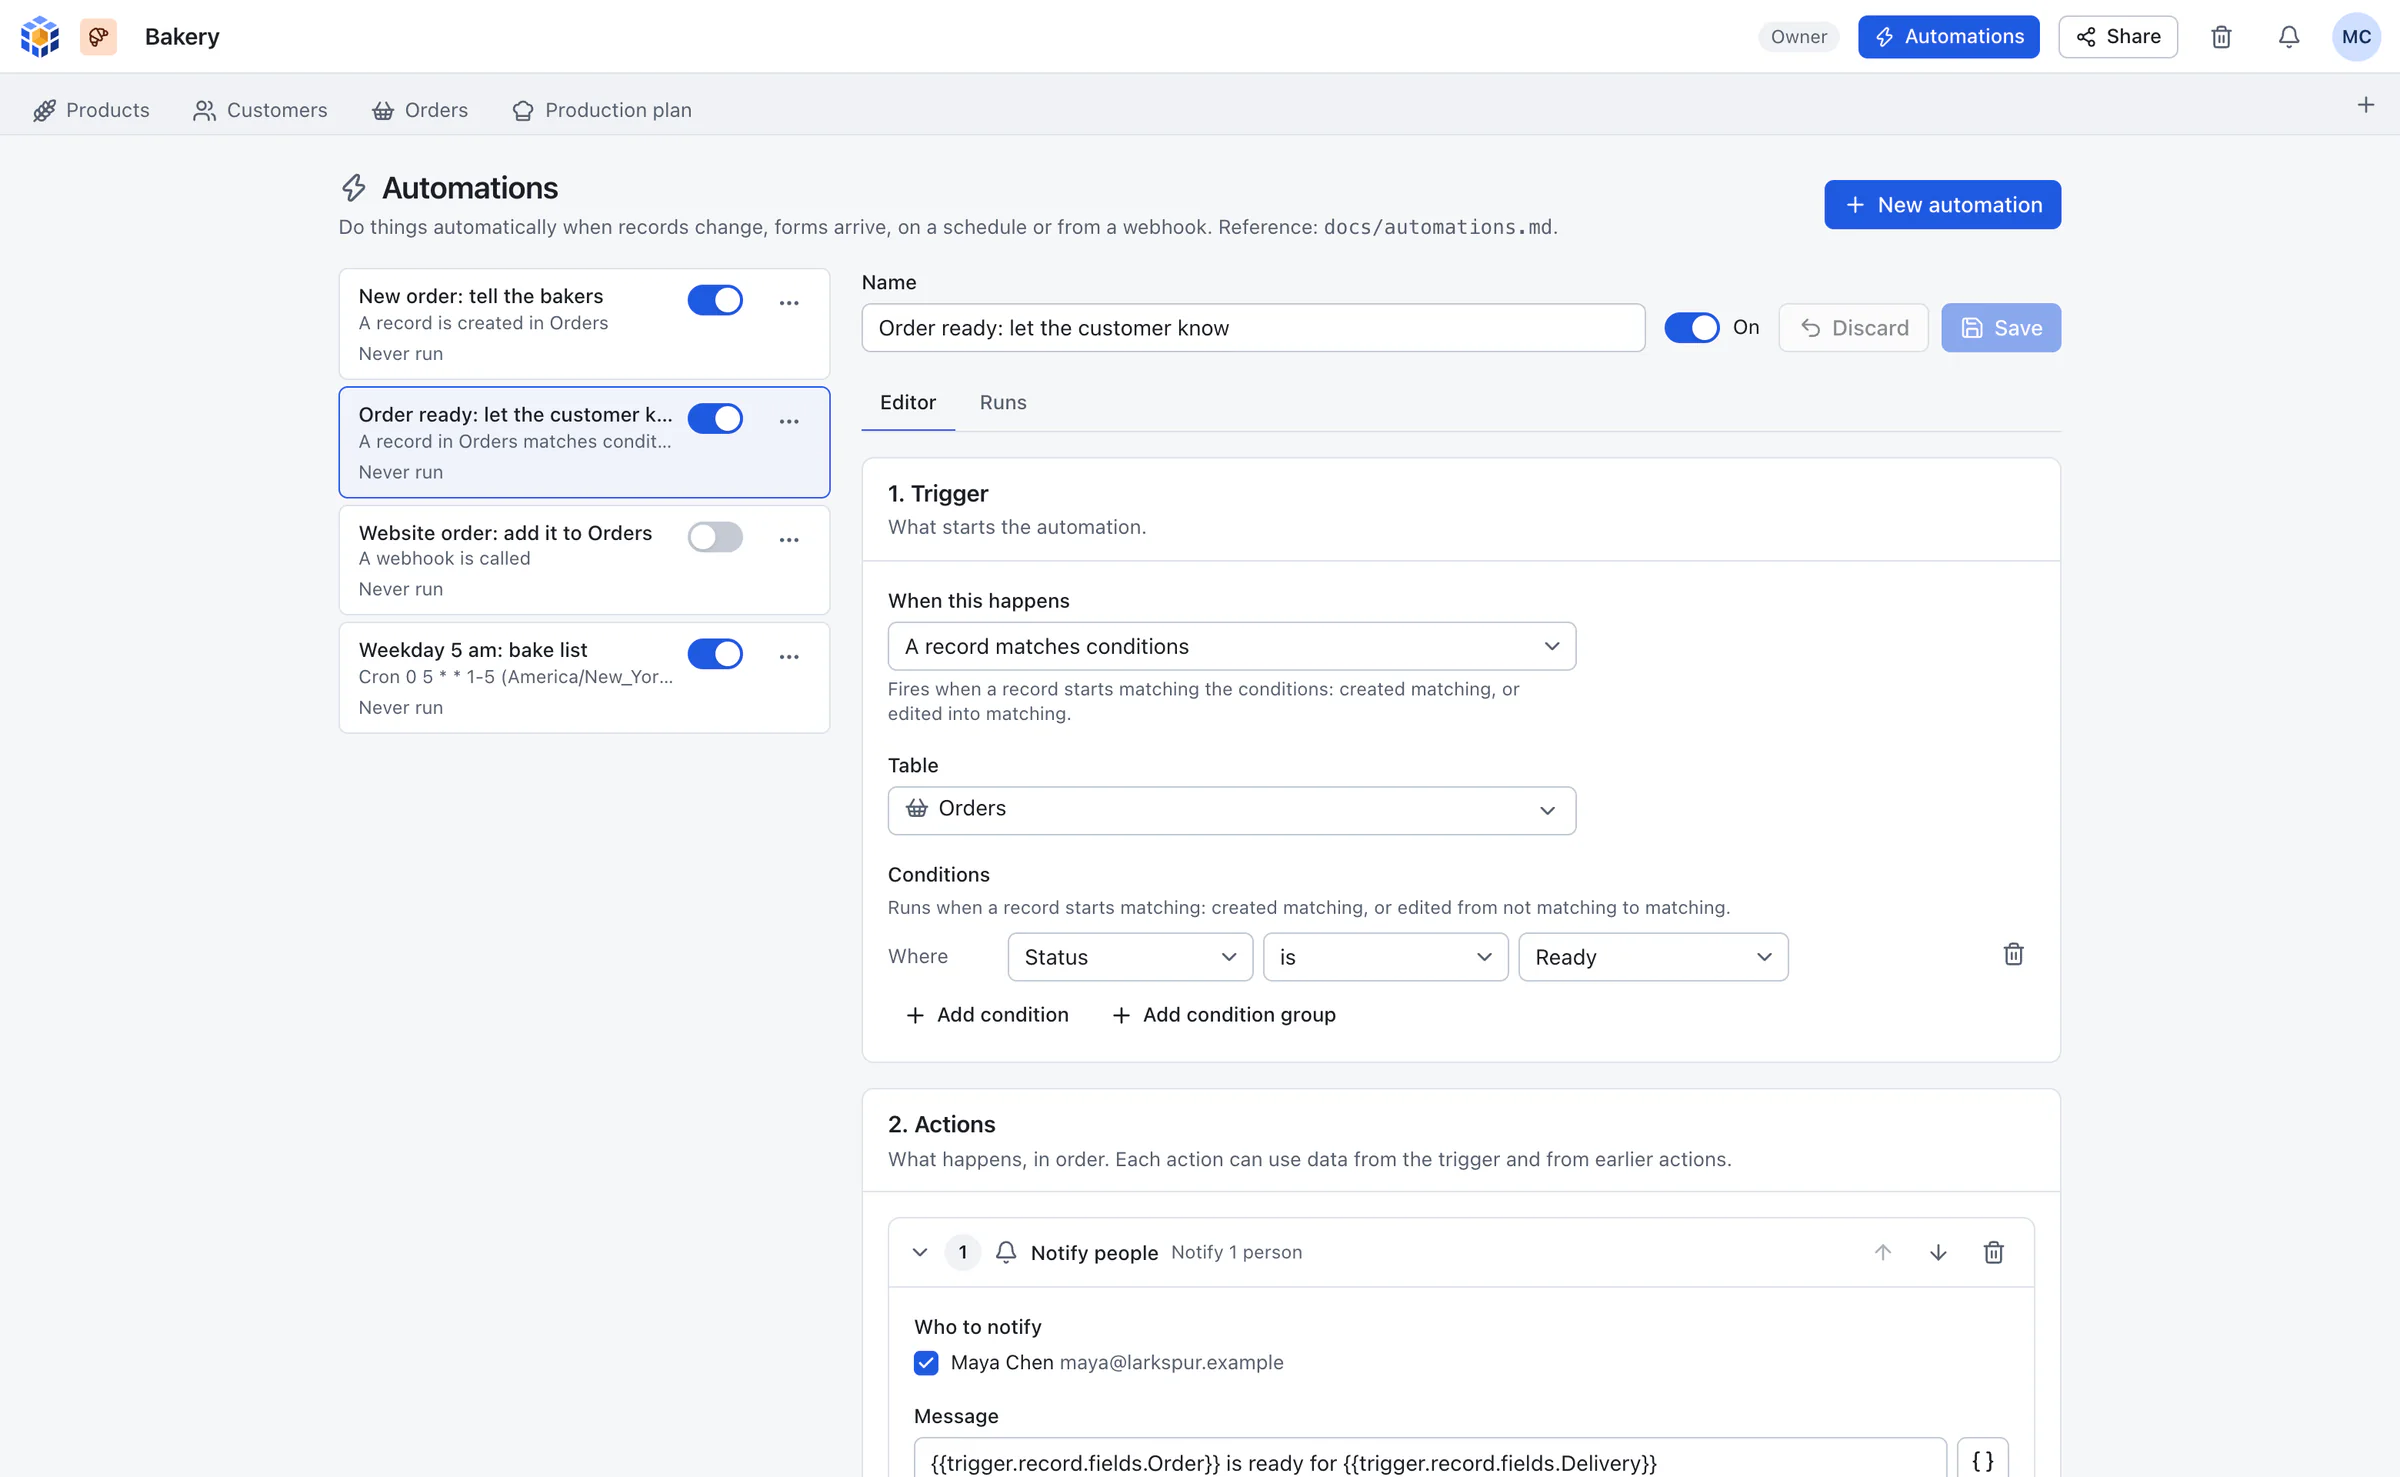
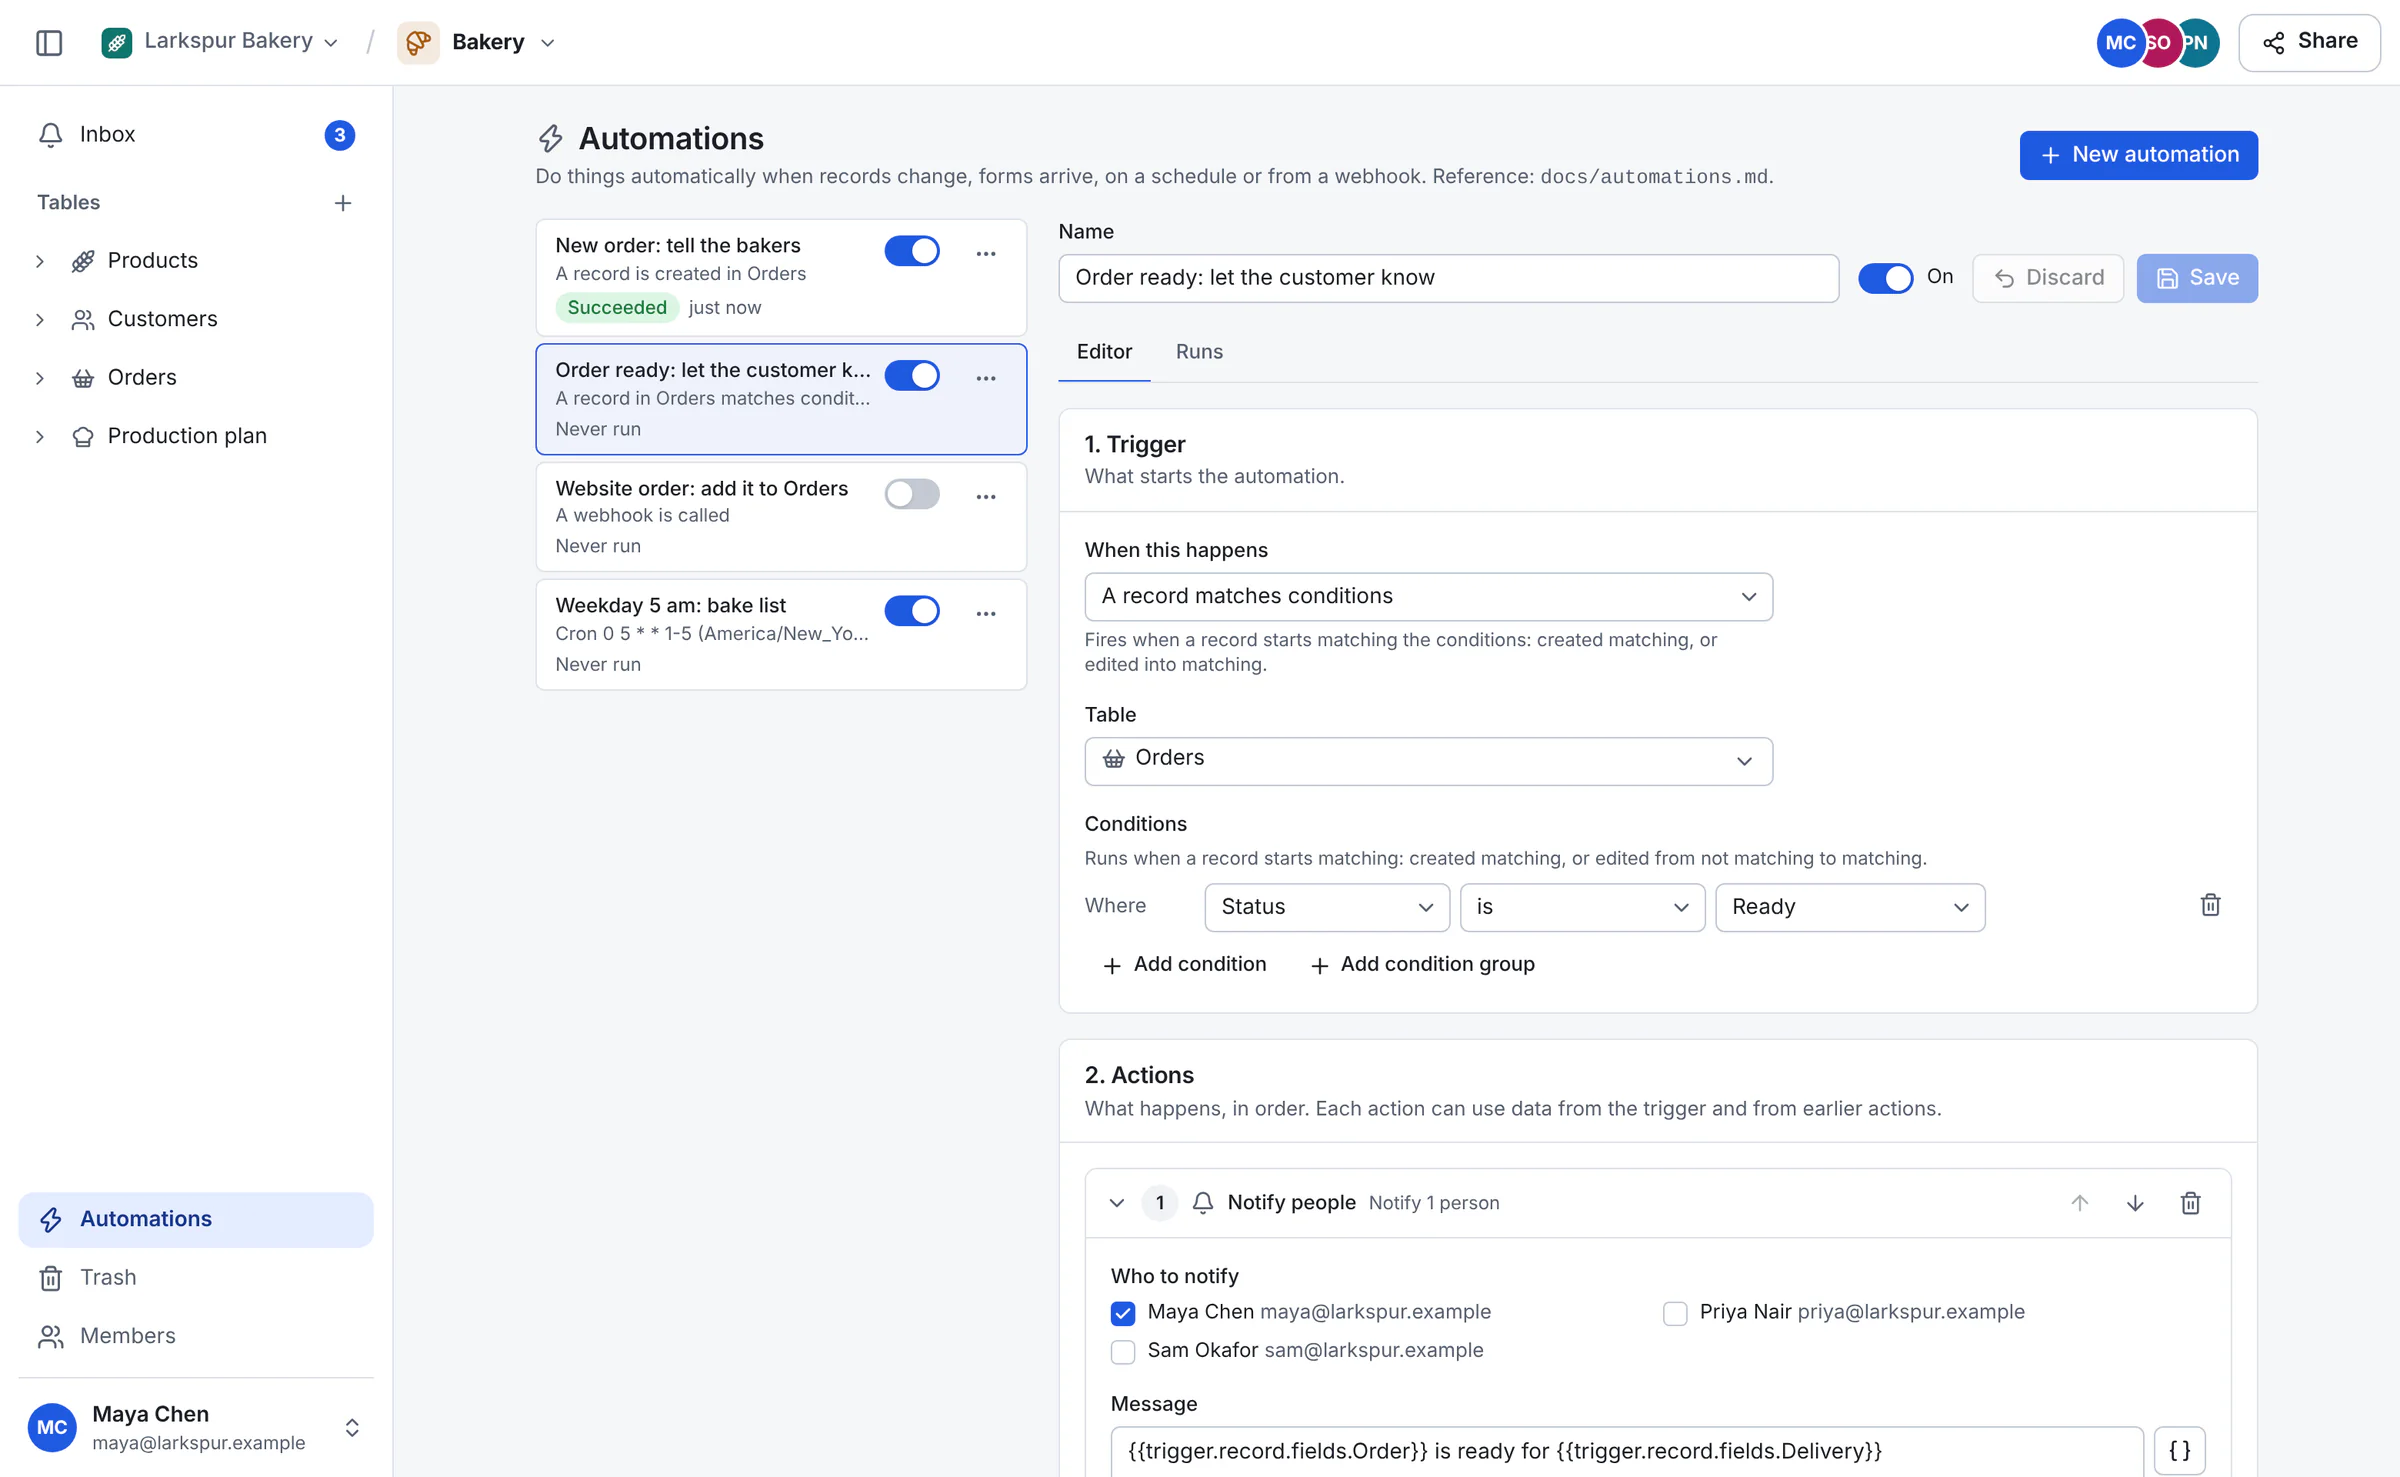
Site: screenshots and landing page for the redesign
The screenshot script works with the new app: it marks the first-run intro
as seen through the API, creates empty bases, colours the workspaces, seeds
more bases, two teammates who joined by invite and a pending invite, a few
Inbox notifications and one deleted item of each kind. New shots: workspace
home, Search everything, Members and the Trash page, wired into "See it".
OPENBASE_SHOTS_CHROMIUM (also in the smoke test) runs them with another
Chrome or Chromium. The feature list gains Search everything, Workspaces
and members and Easy to start, and drops per-base sharing.

Claude-Session: https://claude.ai/code/session_01YJ8z3JBMzgdkmcvJKEBwfd

diff --git a/site/src/data/icons.ts b/site/src/data/icons.ts
@@ -769,5 +769,83 @@ export const icons: Record<string, [string, Record<string, string>][]> = {
     "rx": "1"
    }
   ]
+ ],
+ "search": [
+  [
+   "path",
+   {
+    "d": "m21 21-4.34-4.34"
+   }
+  ],
+  [
+   "circle",
+   {
+    "cx": "11",
+    "cy": "11",
+    "r": "8"
+   }
+  ]
+ ],
+ "user-plus": [
+  [
+   "path",
+   {
+    "d": "M16 21v-2a4 4 0 0 0-4-4H6a4 4 0 0 0-4 4v2"
+   }
+  ],
+  [
+   "circle",
+   {
+    "cx": "9",
+    "cy": "7",
+    "r": "4"
+   }
+  ],
+  [
+   "line",
+   {
+    "x1": "19",
+    "x2": "19",
+    "y1": "8",
+    "y2": "14"
+   }
+  ],
+  [
+   "line",
+   {
+    "x1": "22",
+    "x2": "16",
+    "y1": "11",
+    "y2": "11"
+   }
+  ]
+ ],
+ "sparkles": [
+  [
+   "path",
+   {
+    "d": "M11.017 2.814a1 1 0 0 1 1.966 0l1.051 5.558a2 2 0 0 0 1.594 1.594l5.558 1.051a1 1 0 0 1 0 1.966l-5.558 1.051a2 2 0 0 0-1.594 1.594l-1.051 5.558a1 1 0 0 1-1.966 0l-1.051-5.558a2 2 0 0 0-1.594-1.594l-5.558-1.051a1 1 0 0 1 0-1.966l5.558-1.051a2 2 0 0 0 1.594-1.594z"
+   }
+  ],
+  [
+   "path",
+   {
+    "d": "M20 2v4"
+   }
+  ],
+  [
+   "path",
+   {
+    "d": "M22 4h-4"
+   }
+  ],
+  [
+   "circle",
+   {
+    "cx": "4",
+    "cy": "20",
+    "r": "2"
+   }
+  ]
  ]
 };

diff --git a/site/README.md b/site/README.md
@@ -52,16 +52,25 @@ Node 24 (`.node-version`). `npm run check-links -- --external` also requests eve
 
 `public/screenshots/*.webp` are real screenshots of the app. `npm run screenshots` regenerates them:
 it starts an **existing** release binary on a free localhost port (8080 when free) with a temporary data
-directory, creates the first admin, seeds a made-up bakery through the REST API (customers, orders with
-linked records and a formula, products with generated photos, a production plan, a public form,
-automations), drives the installed Google Chrome with Playwright (`channel: "chrome"`; no browser is
-downloaded), writes 2x WebP files under 300 KB each, then stops the server and deletes the data directory.
+directory, creates the first admin (with the first-run intro marked as seen), seeds a made-up bakery
+through the REST API (a workspace of several bases; customers, orders with linked records and a formula,
+products with generated photos, a production plan, a public form, automations; two teammates who joined
+by invite and one pending invite; a few @mentions and an automation notice in the Inbox; one deleted item
+of each kind in the Trash), drives the installed Google Chrome with Playwright (`channel: "chrome"`; no
+browser is downloaded), writes 2x WebP files under 300 KB each, then stops the server and deletes the
+data directory.
 
 ```sh
 OPENBASE_BIN=../target/release/openbase npm run screenshots    # default: <repo>/target/release/openbase
 npm run screenshots -- --only grid,kanban                      # only some shots
 npm run screenshots -- --seed-only                             # seed, print the URL and login, wait for Ctrl-C
+OPENBASE_SHOTS_CHROMIUM=/path/to/chrome npm run screenshots    # another Chrome or Chromium, where Google Chrome is not installed
 ```
+
+The landing page references the files by name (`<shot>-light.webp`, and `<shot>-dark.webp` for the themed
+ones) and hard-codes their sizes in `dims()` in `src/pages/index.astro`: update it when a shot's window size
+changes. The assistants shot shows the server's address, which is `http://localhost:8080/mcp` only when
+port 8080 is free.
 
 Build the binary the usual way first (`cargo build --release -p openbase` after `cd web && npm ci && npm run build`).
 Dates in the demo are relative to today, so regenerated calendar and timeline images show the current month.
